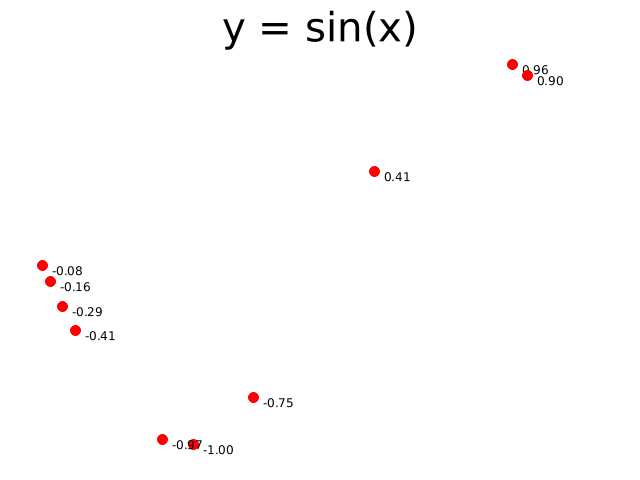
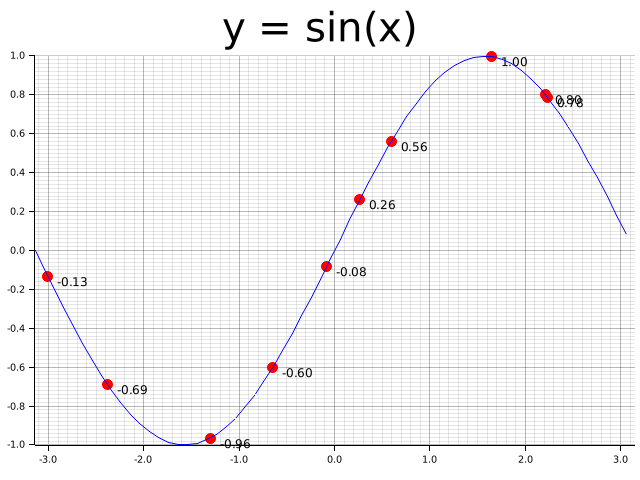
plot sin curve

Changed region(s): [[0.0, 0.0938, 1.0, 0.9688]]

diff --git a/sandbox/src/main.rs b/sandbox/src/main.rs
@@ -2,18 +2,25 @@ use rand::Rng; // randライブラリからRngトレイトをインポート
 use std::f64::consts::PI; // 円周率PIをインポート
 use plotters::prelude::*; // plottersライブラリをインポート
 
+fn sin_func(x: f64) -> f64 {
+    let amp = 1.0;
+    let omega = 1.0;
+    let phase = 0.0;
+    return amp * f64::sin(omega * x + phase);
+}
+
 fn main() -> Result<(), Box<dyn std::error::Error>> {
     let mut rng = rand::thread_rng(); // 乱数ジェネレータを初期化
 
-    let num_data = 10;
+    let num_train = 10;
 
     let mut x_train = Vec::new();
     let mut y_train = Vec::new();
 
-    for _ in 0..num_data {
+    for _ in 0..num_train {
         let x = rng.gen_range(-PI..PI);
         x_train.push(x);
-        y_train.push(x.sin());
+        y_train.push(sin_func(x));
     }
 
     // グラフを描画する画像ファイルを作成
@@ -30,19 +37,33 @@ fn main() -> Result<(), Box<dyn std::error::Error>> {
         .y_label_area_size(30)
         .build_cartesian_2d(-PI..PI, -1.0..1.0)?;
 
+    // XY軸、グリッド線を描画
+    chart.configure_mesh().draw()?;
+
     for (x, y) in x_train.iter().zip(y_train.iter()) {
         chart.draw_series(PointSeries::of_element(
-            vec![(*x, *y)],
-            5,
-            ShapeStyle::from(&RED).filled(),
-            &|coord, size, style| {
-                EmptyElement::at(coord)
-                    + Circle::new((0, 0), size, style)
-                    + Text::new(format!("{:.2}", coord.1), (10, 0), ("sans-serif", 15).into_font())
+            vec![(*x, *y)], // ベクトル (x, y) を作成
+            5, // 点のサイズ
+            ShapeStyle::from(&RED).filled(), // 点のスタイル
+            &|coord, size, style| { // 無名関数（クロージャ）を作成。&で参照キャプチャを指定。
+                EmptyElement::at(coord) // 点の座標を指定（空の要素を配置）
+                    + Circle::new((0, 0), size, style) // 円を描画
+                    + Text::new(format!("{:.2}", coord.1), (10, 0), ("sans-serif", 15).into_font()) // y の値を表示
             },
         ))?;
-
     }
+
+    // sin関数を描画
+    let step = 0.1;
+    let range_len = (2.0 * PI / step).round() as i32;
+    let range = (0..range_len).map(|i| i as f64 * step - PI);
+    chart.draw_series(LineSeries::new(
+        range.map(|x| (x, sin_func(x))),
+        &BLUE
+    ))?;
+
+    // 描画が終わったら、画像ファイルを保存
+    root.present()?;
 
     Ok(())
 
